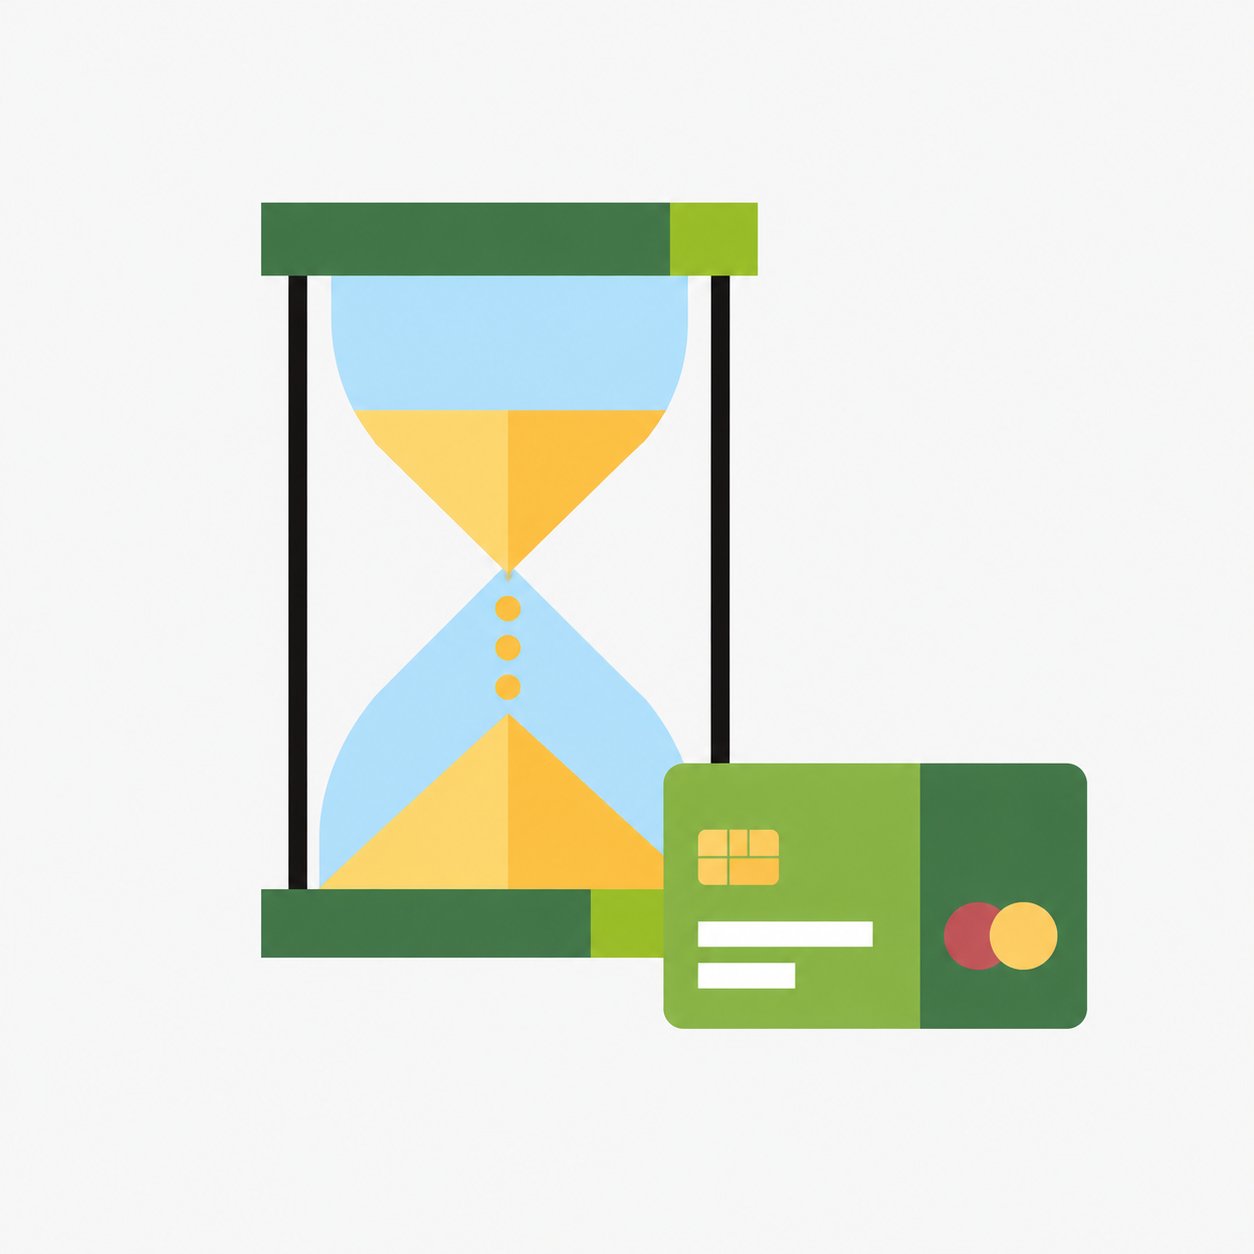
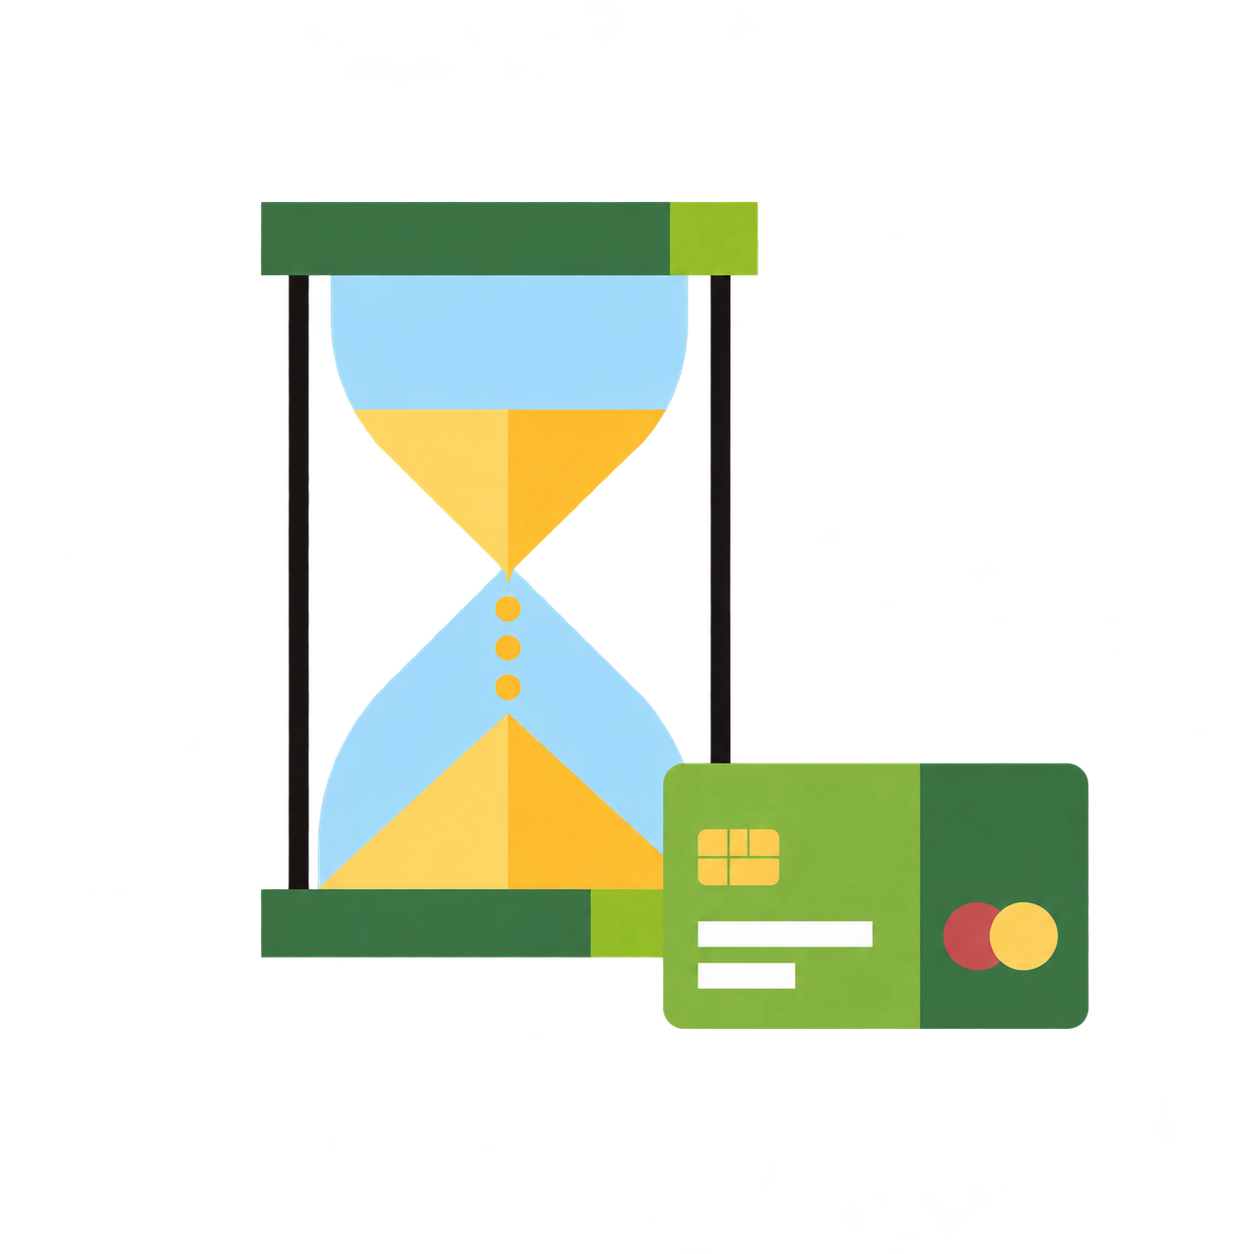
fix: remove payment illustration background and enlarge it

Changed region(s): [[0.2177, 0.2177, 0.2488, 0.6842], [0.5598, 0.2177, 0.5909, 0.311], [0.4665, 0.311, 0.5287, 0.3421]]

diff --git a/legacy/prototypes/policy-issuance/PolicyIssuancePrototype.jsx b/legacy/prototypes/policy-issuance/PolicyIssuancePrototype.jsx
@@ -1635,7 +1635,7 @@ function PolicyIssuancePrototype(props) {
           />
         ) : screen === 'payment-pending' ? (
           <section className="rshb-policy-issuance__payment-pending" aria-labelledby="policy-payment-pending-title" data-id="policy-payment-pending">
-            <img className="rshb-policy-issuance__payment-image" src={paymentPendingImage} alt="" width="320" height="320" />
+            <img className="rshb-policy-issuance__payment-image" src={paymentPendingImage} alt="" width="416" height="416" />
             <h1 className="rshb-policy-issuance__title" id="policy-payment-pending-title" ref={paymentHeadingRef} tabIndex={-1}>
               Ожидаем подтверждения оплаты
             </h1>

diff --git a/legacy/prototypes/policy-issuance/styles.css b/legacy/prototypes/policy-issuance/styles.css
@@ -65,7 +65,7 @@
 }
 .rshb-policy-issuance__payment-image {
   display: block;
-  width: min(320px, 40svh, 100%);
+  width: min(416px, 52svh, 100%);
   height: auto;
 }
 .rshb-policy-issuance__payment-pending .rshb-policy-issuance__title {

diff --git a/legacy/prototypes/policy-issuance/assets/payment-pending.prompt.md b/legacy/prototypes/policy-issuance/assets/payment-pending.prompt.md
@@ -1,5 +1,7 @@
 # Payment pending illustration
 
+Background removal edit via built-in ImageGen (`transparent_background: true`): Remove the off-white background around and between the hourglass and card. Preserve the objects, colors, details, square canvas and original margins. Output a transparent PNG; do not crop or add elements.
+
 Generated with the built-in ImageGen tool. Style references: `property-card.png` and `health-family.png` in this folder.
 
 Use case: illustration-story. Create one standalone square illustration for an insurance website's payment confirmation waiting page. Reference images are STYLE REFERENCES ONLY: match their flat geometric editorial drawing, large sharply bounded solid color shapes, spare black outlines, forest/leaf/lime greens, warm yellow, pale sky blue and small muted red accents. New subject: a large upright hourglass with yellow sand still flowing and a bank card beside it, indicating payment processing, no success checkmark. Calm centered compact composition with generous quiet margins, simple pale off-white background matching the references. Only the hourglass and bank card, with restrained geometric color planes. Entire objects fully visible. Crisp flat 2D, no gradients, no shadows, no photorealism, no 3D, no texture, no typography, no numerals, no logos, no watermark. This is an illustration asset only, not a screen mockup.
